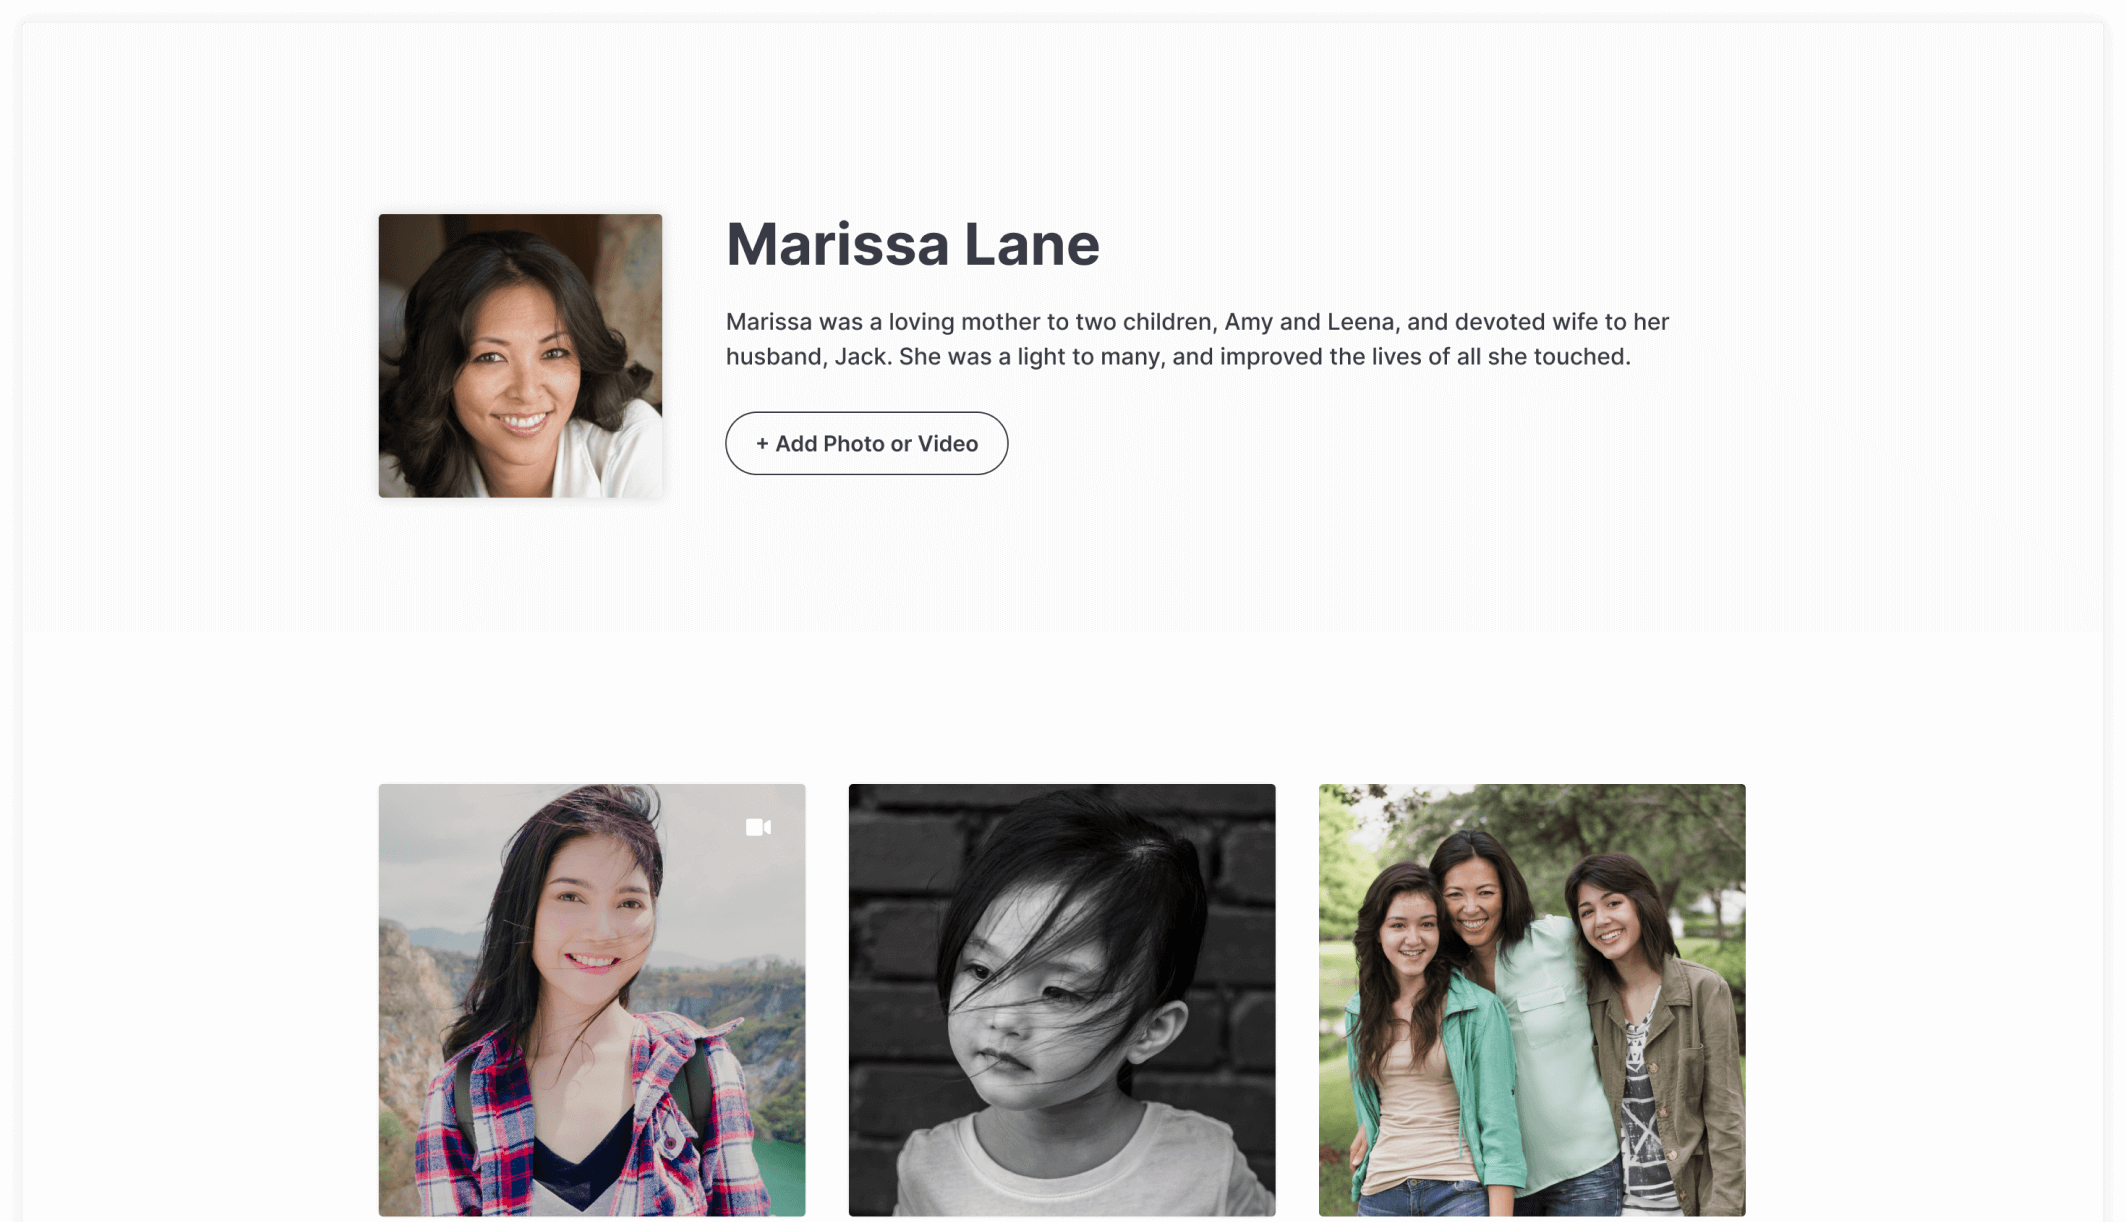
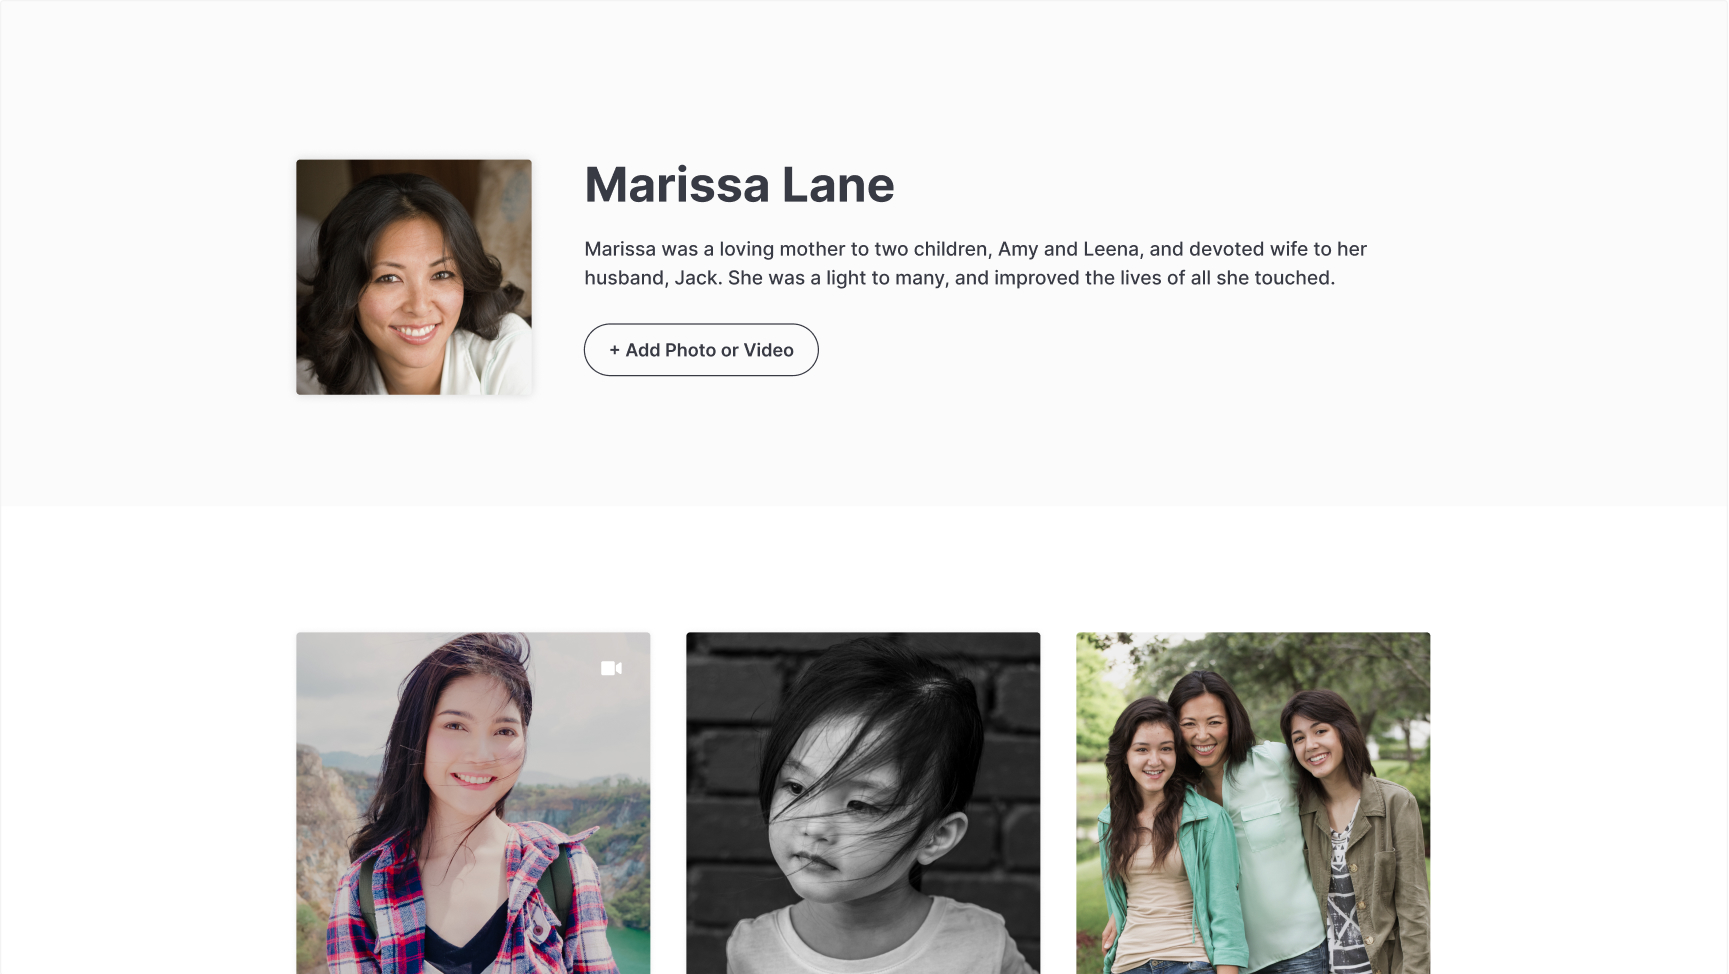
homepage update

diff --git a/src/pages/home/index.js b/src/pages/home/index.js
@@ -7,7 +7,7 @@ import { Content } from 'containers/layout';
 function Home() {
   return (
     <Content py={0} maxWidth="100%" px={0}>
-      <FluidContainer alignItems="center" display="flex" py={[56, 112]}>
+      <FluidContainer alignItems="center" display="flex" pt={[56, 112]}>
         <Text as="h1" variant="h1" mb={40}>
           Beautiful, online memorials
         </Text>
@@ -16,7 +16,7 @@ function Home() {
           variant="body3"
           color="text3"
           mb={40}
-          textAlign="center"
+          textAlign={['left', 'center']}
         >
           Celebrate a life through a private, online memorial — for free. Add
           photos, videos, and comments to commemorate with friends and family.
@@ -30,7 +30,12 @@ function Home() {
         >
           Create Memorial
         </Button>
-        <Image variant="imagecard" width={1} src="/Rembrance.png" />
+        <Image
+          variant="imagecard"
+          width={1}
+          src="/Rembrance.png"
+          sx={{ boxShadow: 'homeimg', zIndex: -1 }}
+        />
       </FluidContainer>
     </Content>
   );

diff --git a/src/containers/layout/Header/index.js b/src/containers/layout/Header/index.js
@@ -183,6 +183,7 @@ class Header extends Component {
             <Text
               variant="headerlink"
               fontSize="24px"
+              color="brand"
               onClick={() => this.setState({ nav: !nav })}
             >
               <i className={nav ? 'far fa-times' : 'far fa-bars'} />

diff --git a/src/styles/theme.js b/src/styles/theme.js
@@ -48,7 +48,8 @@ const theme = {
   },
   shadows: {
     card: '2px 2px 10px rgba(0, 0, 0, 0.03)',
-    card2: '0px 0px 6px rgba(0, 0, 0, 0.07)'
+    card2: '0px 0px 6px rgba(0, 0, 0, 0.07)',
+    homeimg: '0px 0px 15px rgba(0, 0, 0, 0.07)'
   },
   // rebass variants
   sizes: {

diff --git a/src/containers/layout/Footer/SimpleFooter.js b/src/containers/layout/Footer/SimpleFooter.js
@@ -12,6 +12,7 @@ function SimpleFooter() {
         borderTopWidth: 1,
         borderTopStyle: 'solid'
       }}
+      bg="background"
       py={50}
       alignItems="center"
       justifyContent="center"
